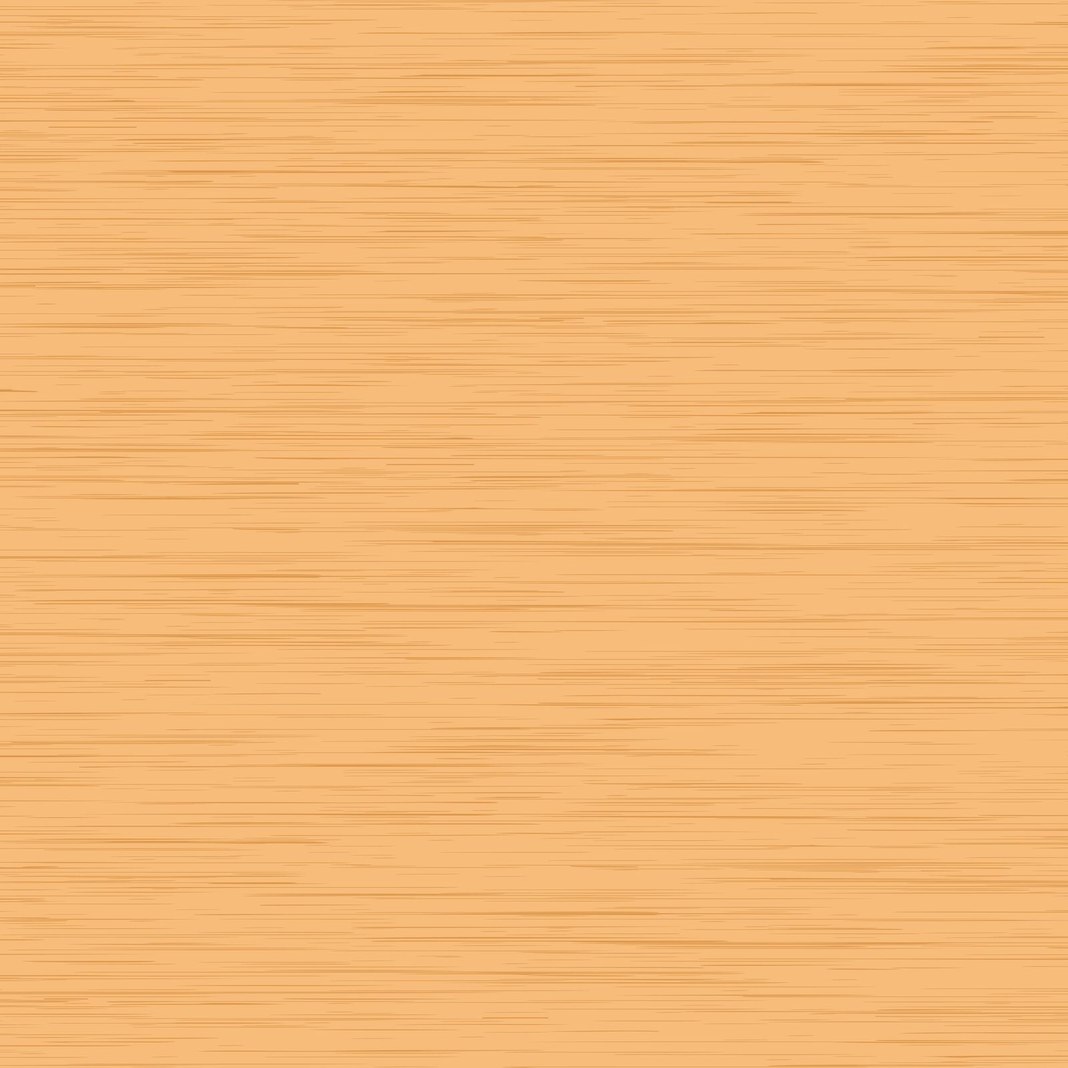
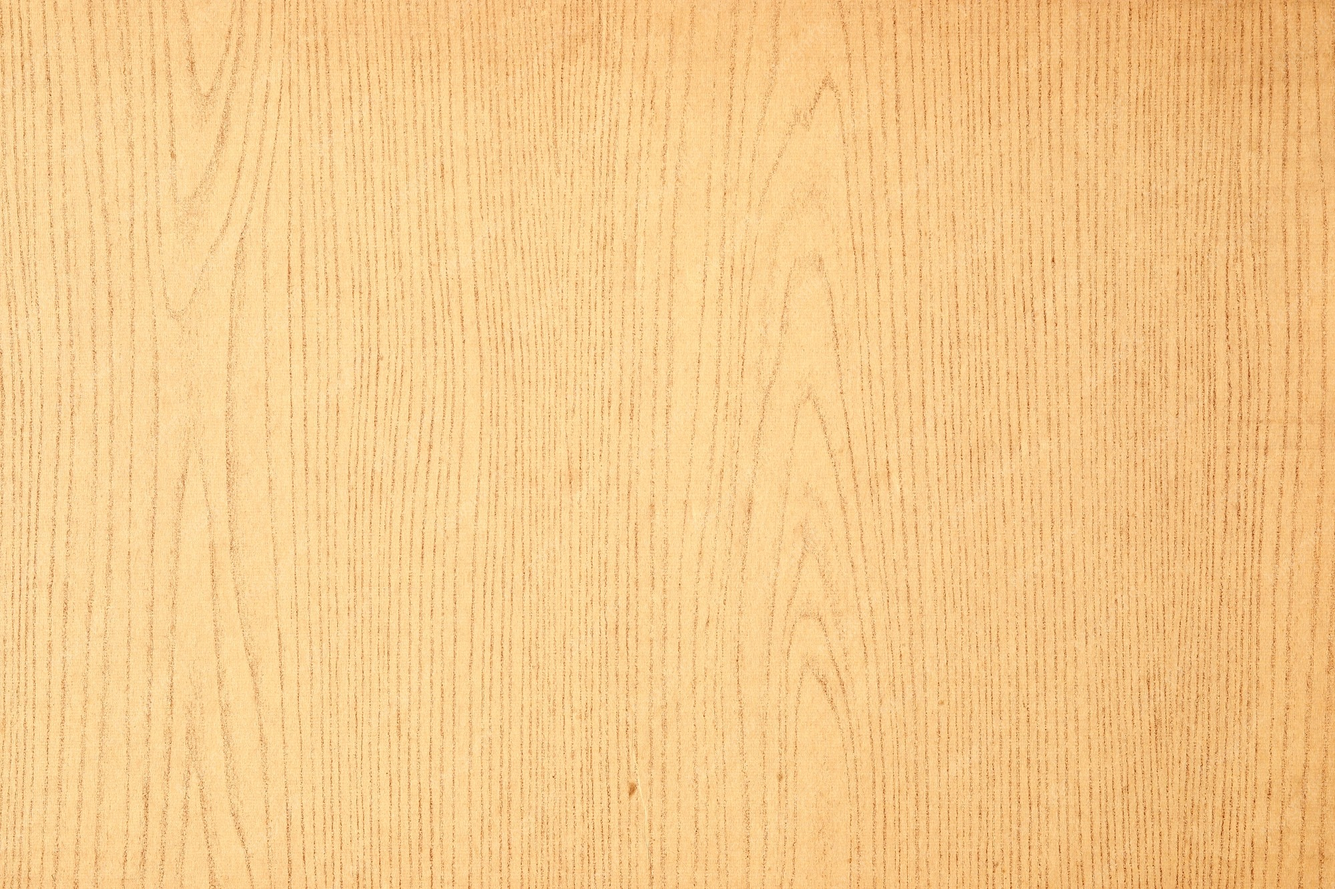
Update homepage visual direction and brand image
Replit-Commit-Author: Agent

diff --git a/.agents/memory/homepage-visual-direction.md b/.agents/memory/homepage-visual-direction.md
@@ -3,8 +3,8 @@ name: Homepage visual direction
 description: The user's desired homepage background and section styling for Fresh Stock Xchange.
 ---
 
-Use the wood-and-compass palette (#C8651B, #E8883A, #F0A458, #8B3A0F, #7B3A14), the latest supplied warm golden wood texture behind homepage content, and pure white header and card surfaces. Keep section wrappers transparent with no panel backgrounds or borders; retain individual product cards with square, edge-to-edge image edges, bottom breathing room for content, and section titles aligned with their grids. The footer uses its separate supplied brown-wood texture with a dark overlay for text contrast.
+Use the wood-and-compass palette (#C8651B, #E8883A, #F0A458, #8B3A0F, #7B3A14), the latest supplied natural brown wood texture behind homepage content, and pure white header and card surfaces. Keep section wrappers transparent with no panel backgrounds or borders; retain individual product cards with square, edge-to-edge image edges, bottom breathing room for content, and section titles aligned with their grids. The footer uses its separate supplied brown-wood texture with a dark overlay for text contrast.
 
-**Why:** the user requested this palette, chose a warm golden wood texture for the homepage, then explicitly requested plain white header and card backgrounds after rejecting tinted backgrounds, nested cards, and decorative bubbles.
+**Why:** the user requested this palette, most recently replaced the homepage wood background with a natural brown wood texture, and explicitly requested plain white header and card backgrounds after rejecting tinted backgrounds, nested cards, and decorative bubbles.
 
 **How to apply:** use the latest supplied warm golden wood texture as the home page background without a color overlay; keep the header and card surfaces pure white, align header gutters with the main content, align section titles with their grids, keep card images square and flush to their edges, give product and combo content balanced horizontal and bottom padding, and preserve behavior.
